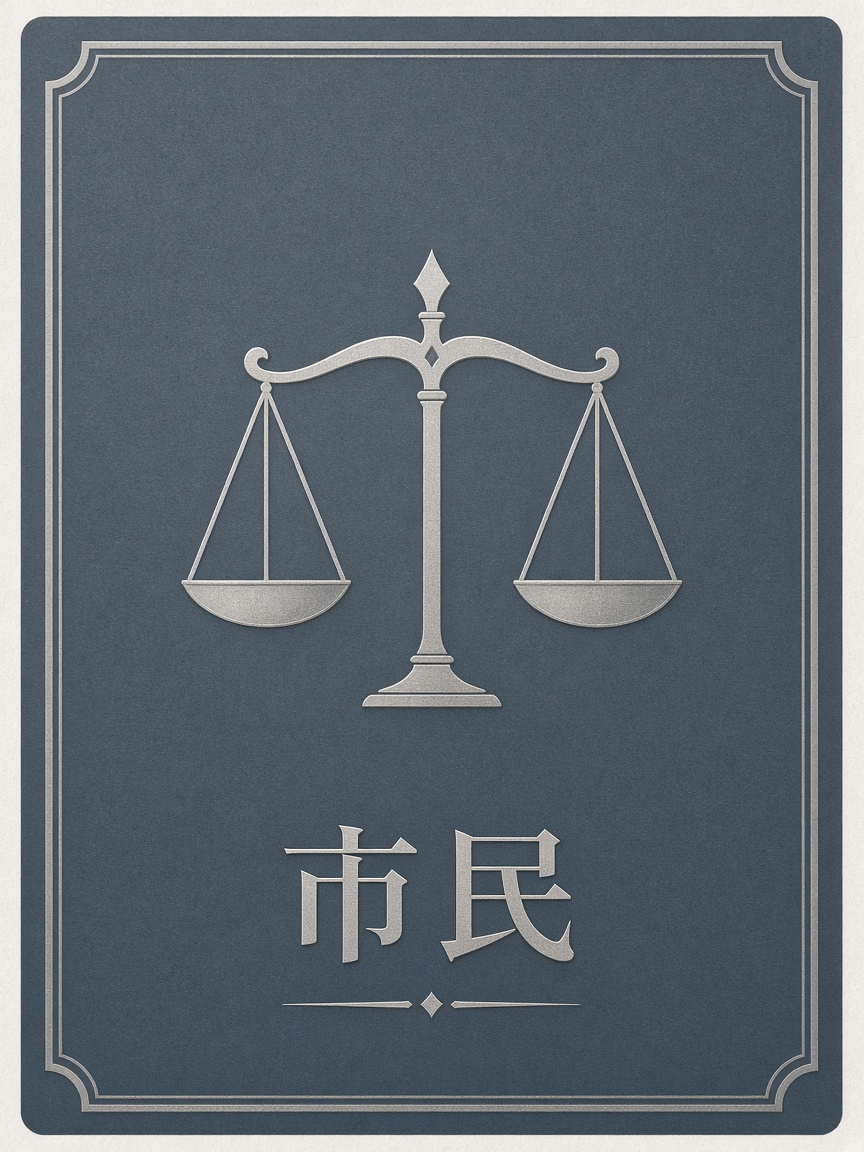
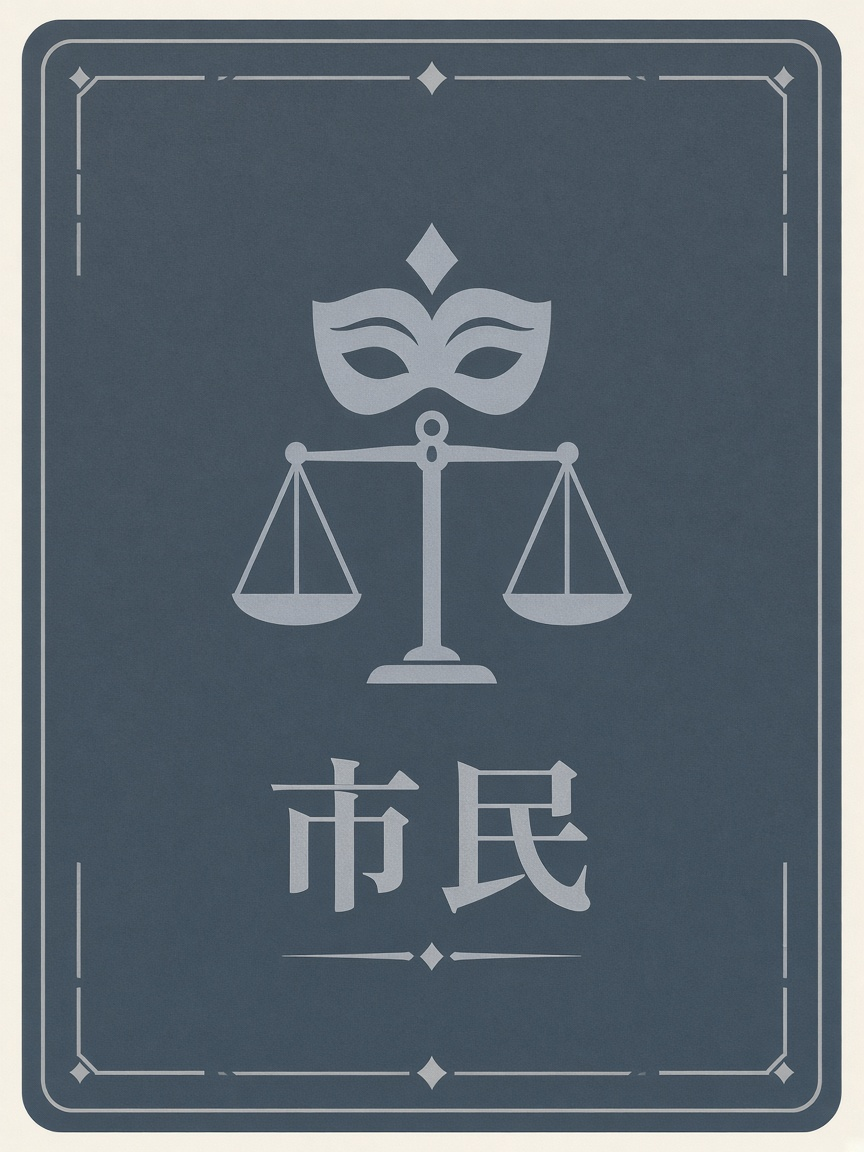
fix(king-and-spy): 市民表記に戻し、カード画像をキング/スパイ/市民に更新

Changed region(s): [[0.0, 0.0, 1.0, 1.0], [0.2188, 0.1875, 0.7812, 0.625], [0.3125, 0.6562, 0.6875, 0.875]]

diff --git a/lib/games.ts b/lib/games.ts
@@ -449,8 +449,8 @@ const games: GameMeta[] = [
     team: false,
     tags: ["カード", "心理戦"],
     rulesSummary: [
-      "キング側はキング1・シチズン4、スパイ側はスパイ1・シチズン4。キング＞シチズン＞スパイ＞キング。",
-      "手札を裏向きで場に出し、双方確定後に同時公開。シチズン同士は同ラウンド継続。",
+      "キング側はキング1・市民4、スパイ側はスパイ1・市民4。キング＞市民＞スパイ＞キング。",
+      "手札を裏向きで場に出し、双方確定後に同時公開。市民同士は同ラウンド継続。",
       "キング側決着+1点、スパイ側決着+2点。点差3点先取、または12ラウンド終了時は得点の多い方。",
       "決着2回ごとにキング／スパイ担当を交代。ホストが開始時の側を選択（オンライン）。",
     ],

diff --git a/lib/play/king-and-spy/labels.ts b/lib/play/king-and-spy/labels.ts
@@ -3,7 +3,7 @@ import type { WinningSide } from "./types";
 
 export const CARD_KIND_LABEL: Record<CardKind, string> = {
   king: "キング",
-  citizen: "シチズン",
+  citizen: "市民",
   spy: "スパイ",
 };
 

diff --git a/games/king-and-spy/rules.md b/games/king-and-spy/rules.md
@@ -34,22 +34,22 @@
 | カード（表示） | 持ち方 |
 | --- | --- |
 | キング | キング側だけが1枚 |
-| シチズン | 双方が4枚ずつ |
+| 市民 | 双方が4枚ずつ |
 | スパイ | スパイ側だけが1枚 |
 
 **相性（強い方がその手の勝ち）**
 
-1. キング は シチズン に勝つ  
-2. シチズン は スパイ に勝つ  
+1. キング は 市民 に勝つ  
+2. 市民 は スパイ に勝つ  
 3. スパイ は キング に勝つ  
 
-**シチズン vs シチズン** は引き分けです（加点なし・同じラウンド内で続行）。
+**市民 vs 市民** は引き分けです（加点なし・同じラウンド内で続行）。
 
 ## 1ラウンドの流れ
 
 1. 双方に5枚を配ります（画面上で **ラウンド n / 12** を表示）。  
 2. 手札から1枚を選び **確定**します（相手の確定前は変更可。確定後は取り消し不可）。選んだカードは **裏向きで場に出し**、双方が揃ったら **同時に公開**します。  
-3. シチズン同士なら捨て札に置き、手順2へ。それ以外なら決着・加点し、そのラウンド終了。  
+3. 市民同士なら捨て札に置き、手順2へ。それ以外なら決着・加点し、そのラウンド終了。  
 4. マッチが続く場合は次のラウンドで新しく5枚を配ります。
 
 ## 担当の入れ替え
@@ -63,7 +63,7 @@
 
 ## このサイト版の補完
 
-- 原作に近い **各5枚** の持ち札と三すくみ・シチズン引き分けを採用しています。  
+- 原作に近い **各5枚** の持ち札と三すくみ・市民引き分けを採用しています。  
 - 出し方は **同時確定・裏向きで場に出す・同時公開**。  
 - 勝利は **点差3点** または **上限12ラウンド**、スパイ側決着の加点 **+2**、**2決着ごとの担当交代** はボドパッ！版の整理です。  
 - オンライン対戦では手札は相手に見えません（部屋コード・非公式）。
